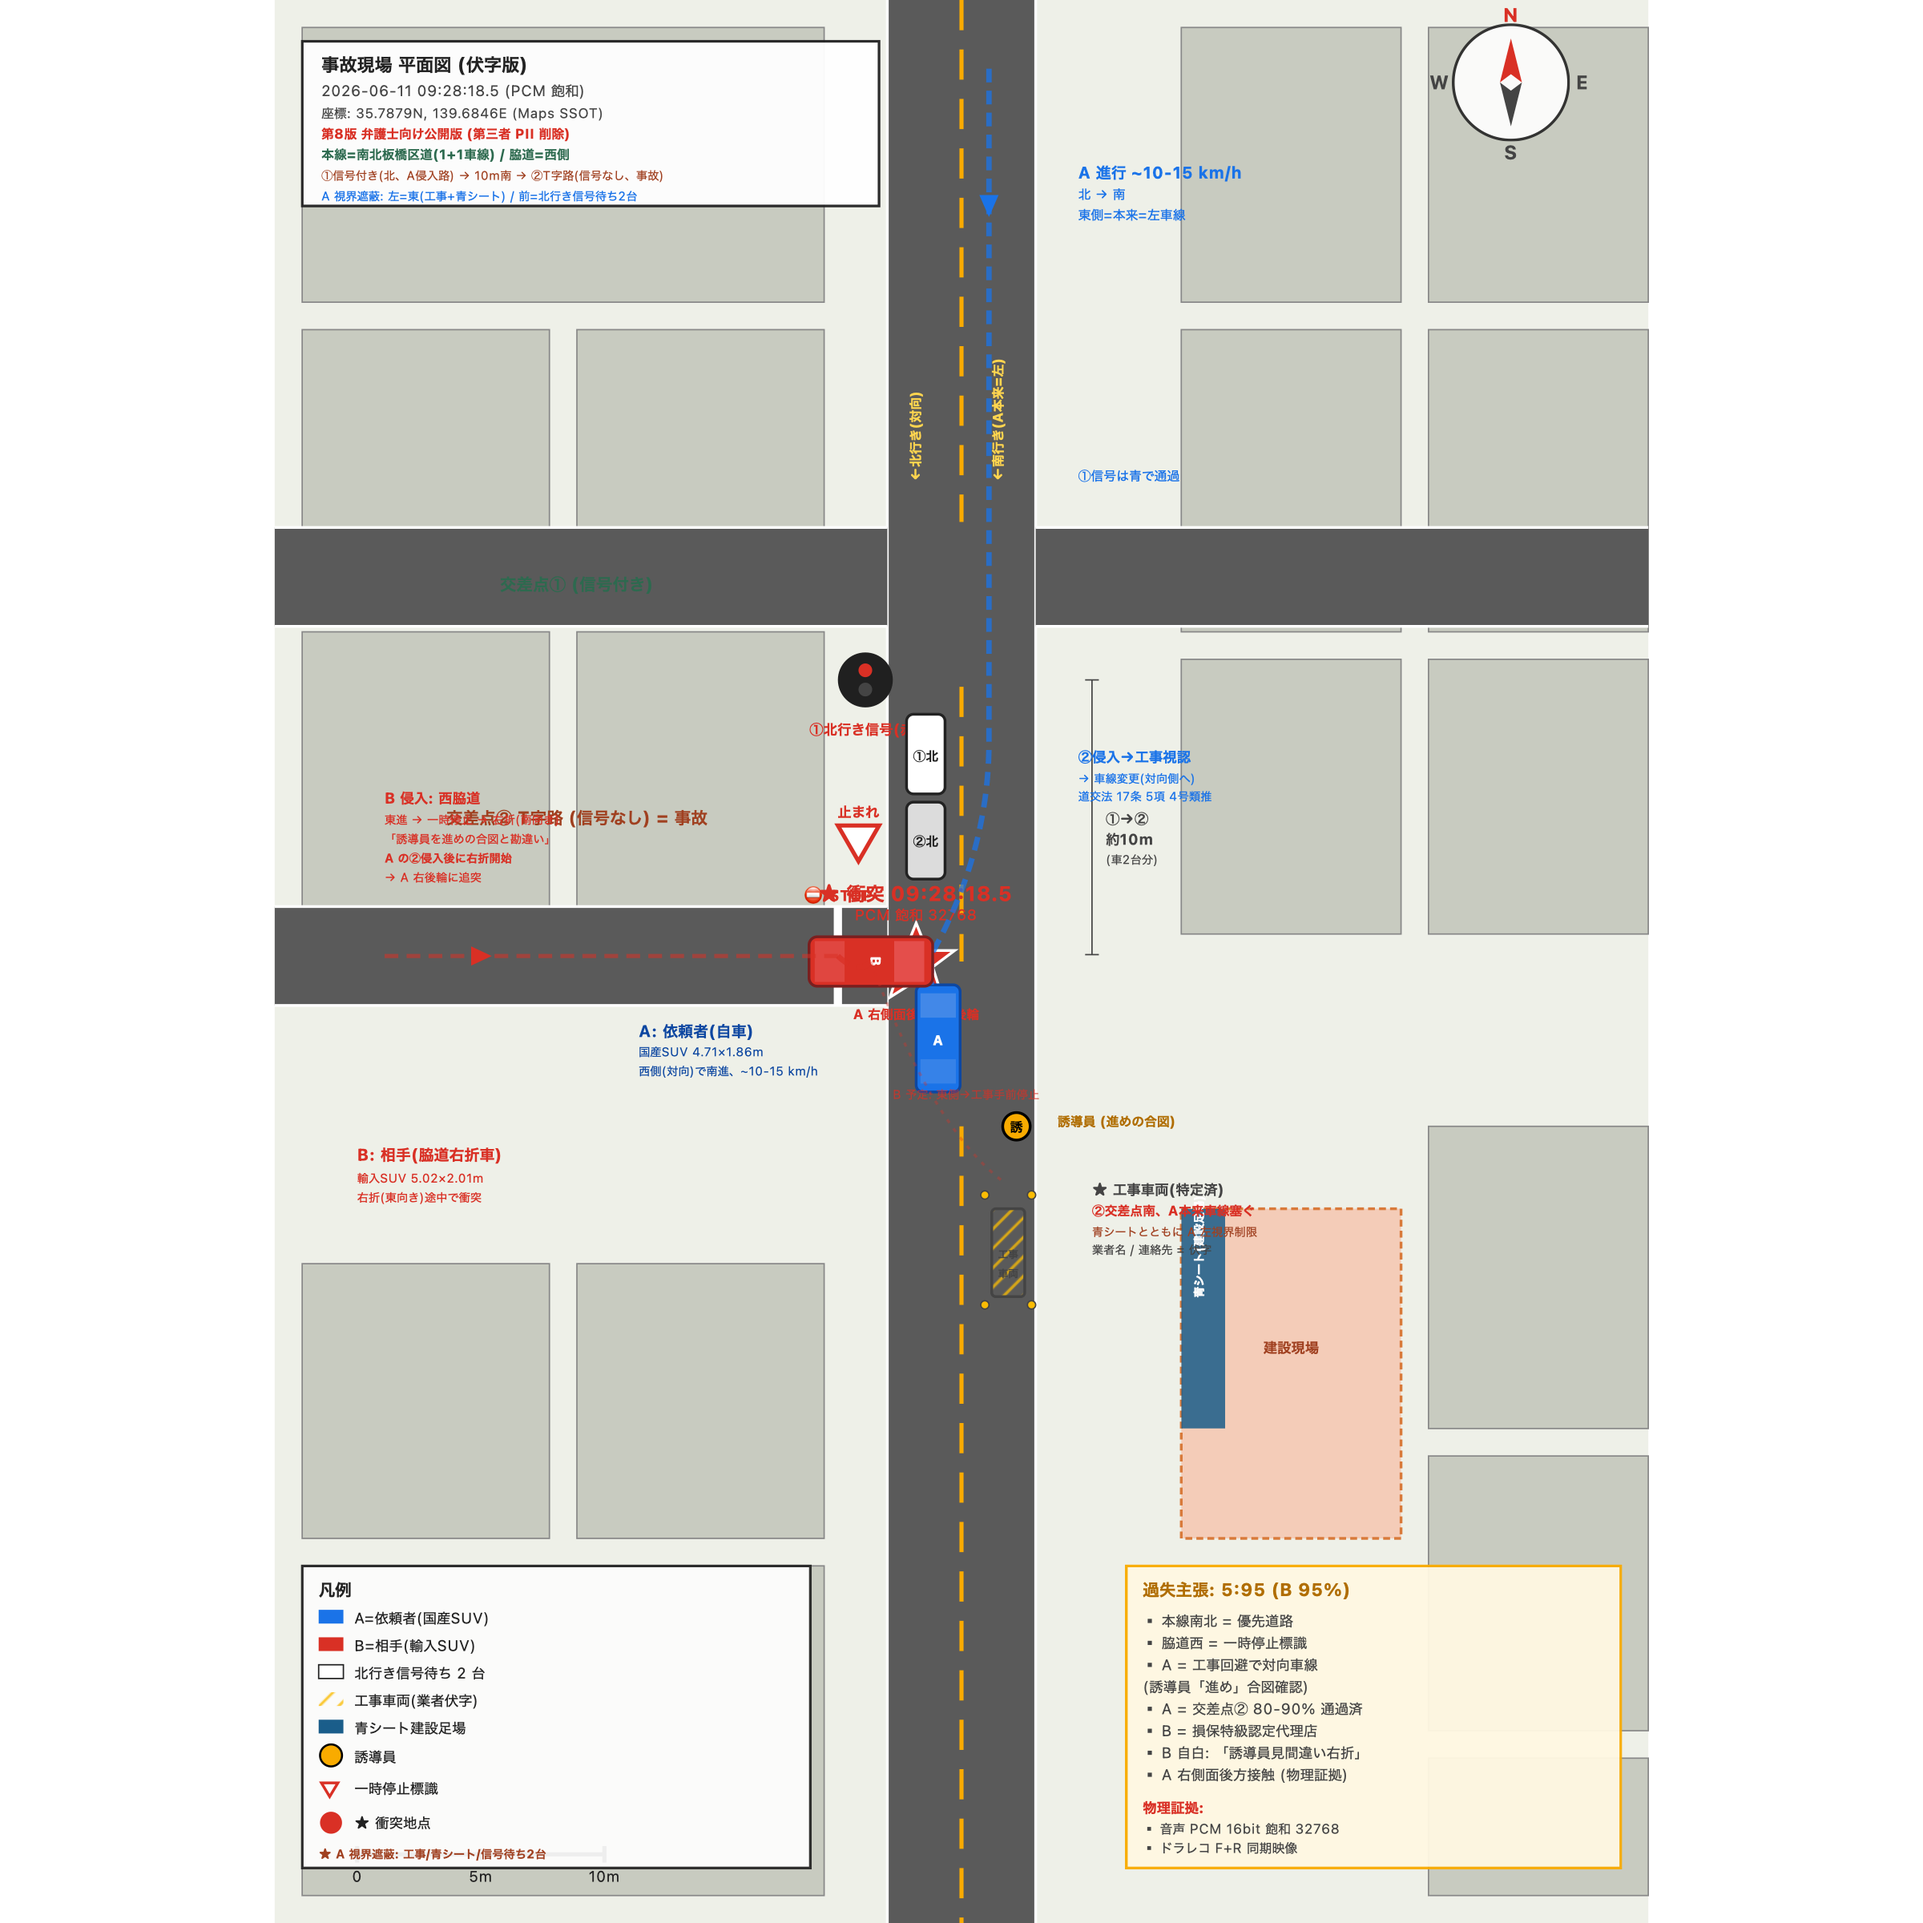
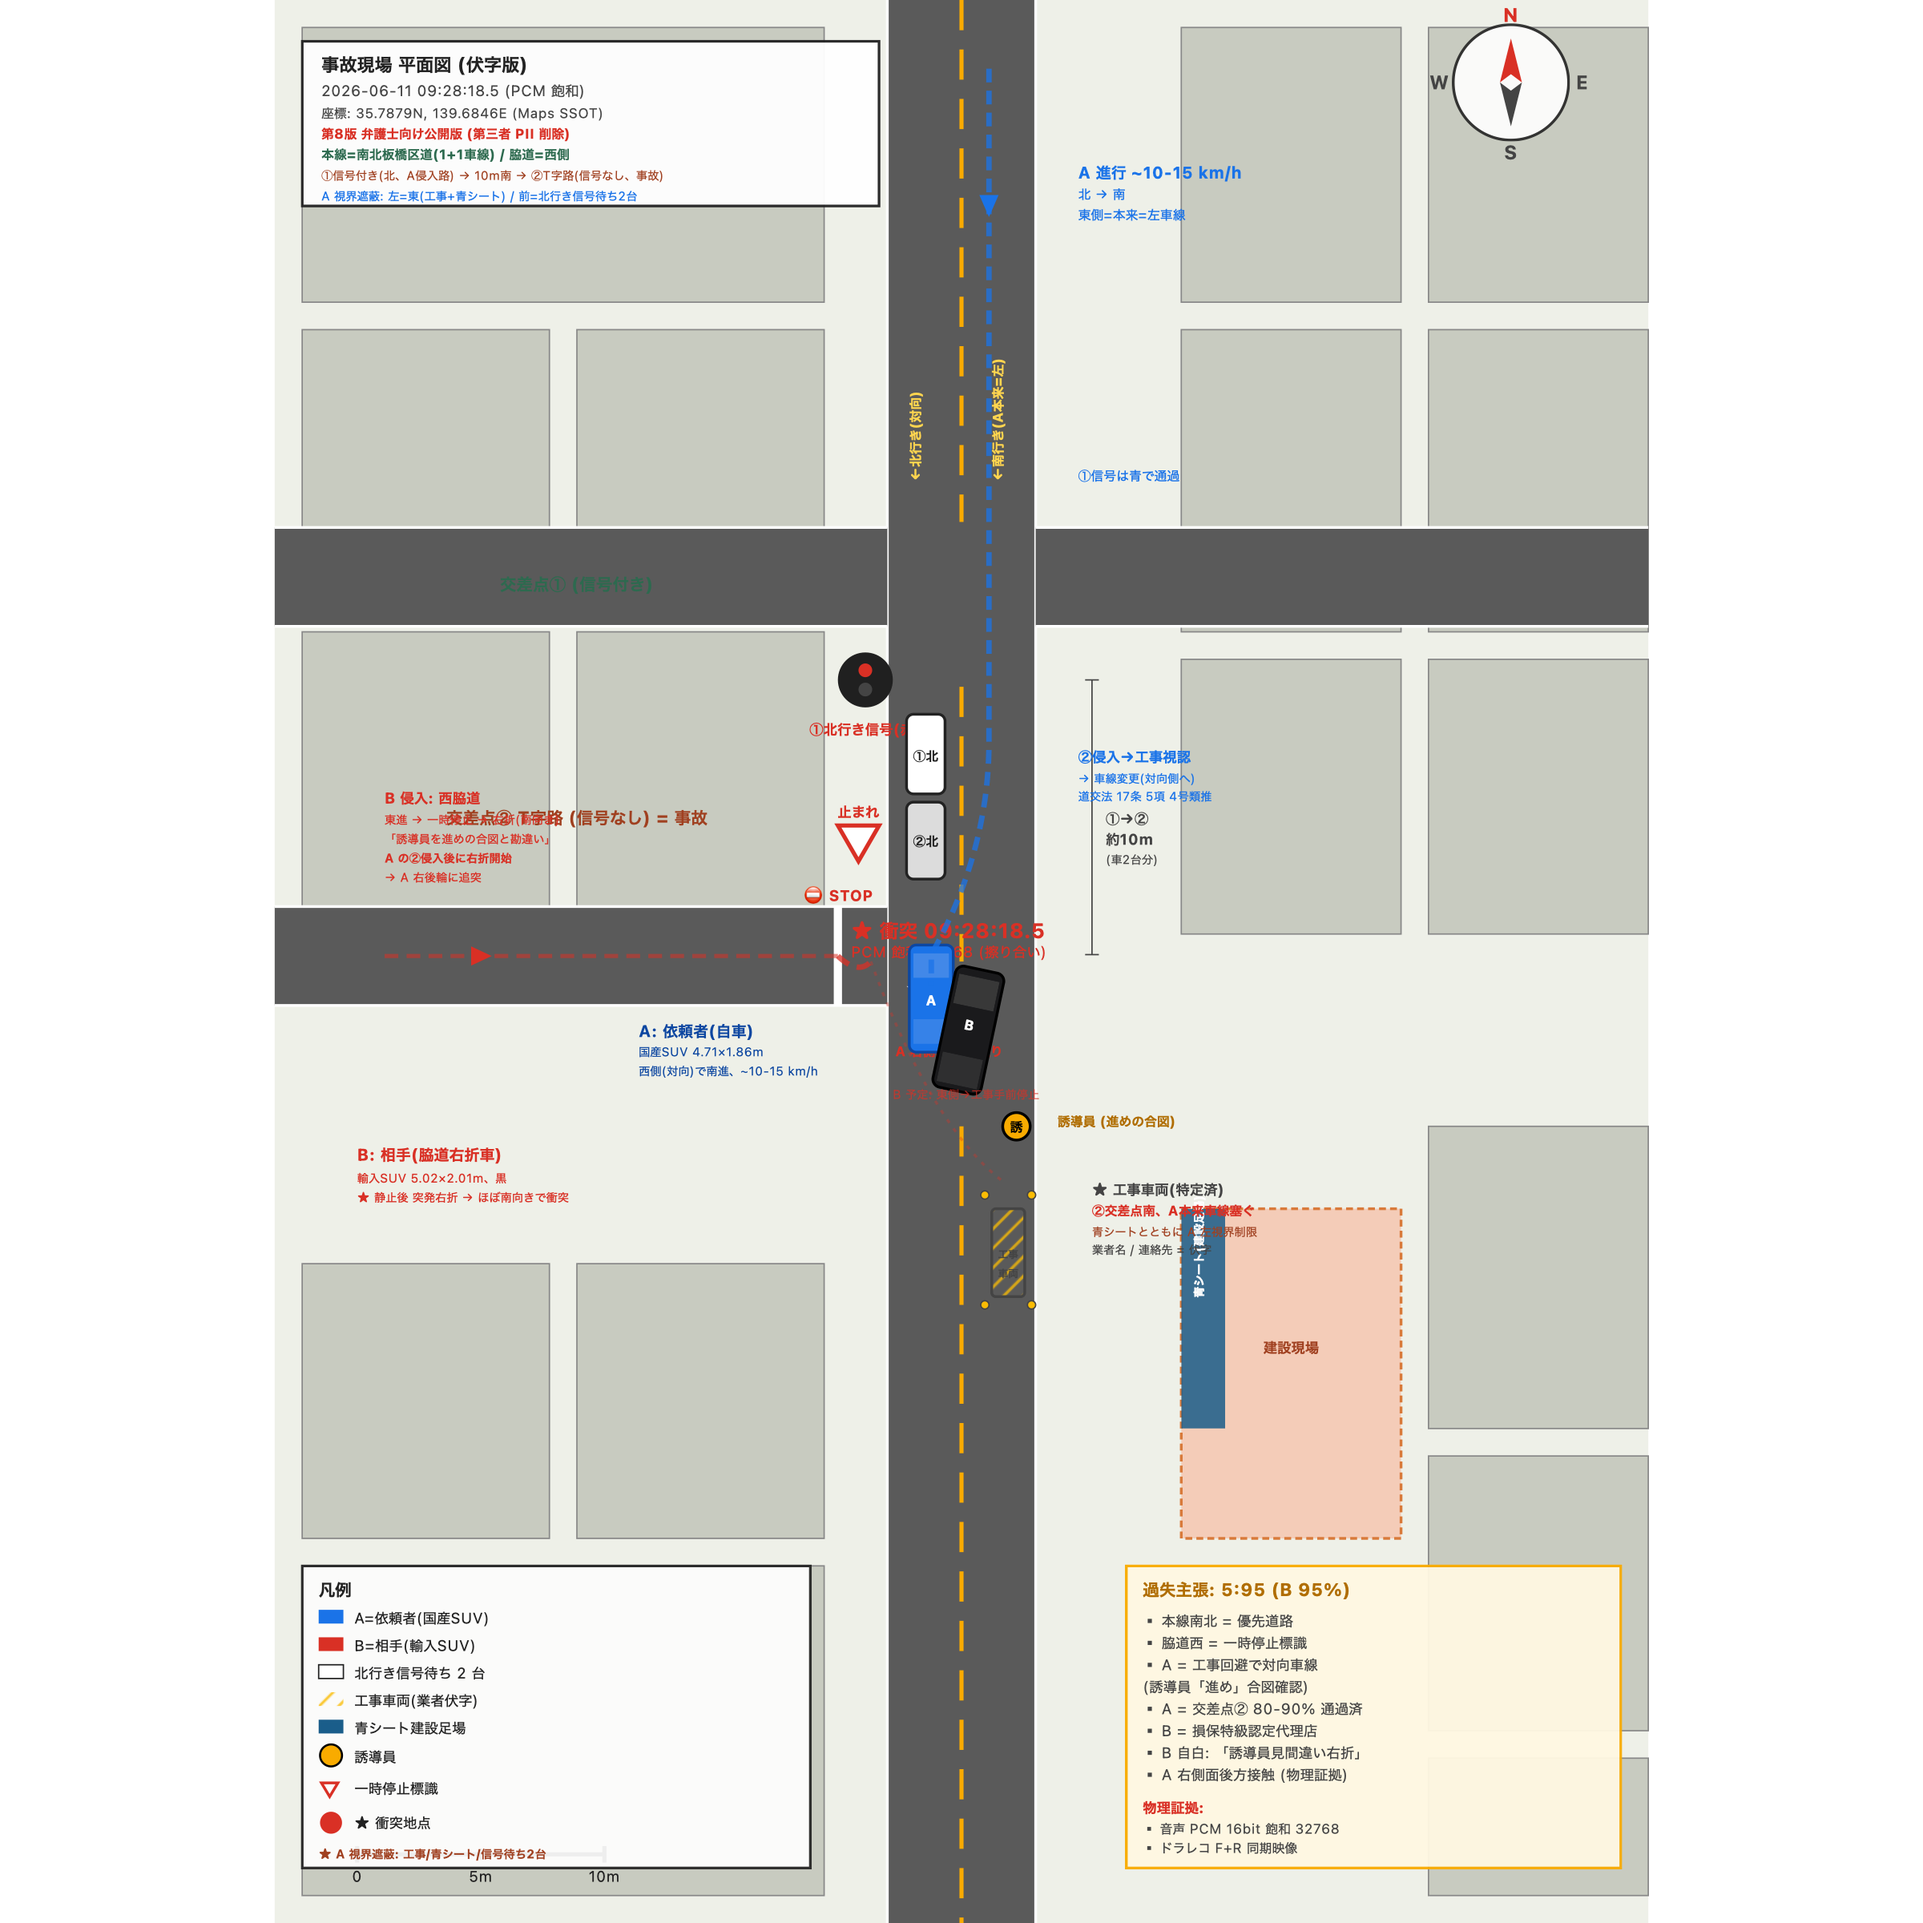
V11: SVG B静止突発右折擦り合い + index 視認対称性論点追加

Changed region(s): [[0.4062, 0.4375, 0.5312, 0.5938], [0.1875, 0.5938, 0.2812, 0.625]]

diff --git a/jiko-bbec5202cc8b/index.html b/jiko-bbec5202cc8b/index.html
@@ -128,6 +128,18 @@
 
 <h2 id="strategy">7. 戦略 γ + 過失主張</h2>
 
+<h3>視認対称性論点(ドラレコ SSOT 基準)</h3>
+<div class="box">
+  <strong>📍 双方の視界対称性</strong><br>
+  A は北行き信号待ち 2 台 + 工事車両 + 青シートで t&lt;2.5 秒まで西脇道の B を視認困難。<br>
+  B も同じく信号待ち 2 台 + 建物角により北からの A を t&lt;2.5 秒まで視認困難。<br>
+  → 両者の視認可能時刻が対称(t≧2.5 秒)。<br>
+  → A は誘導員の「進め」合図に従って西側車線へ進入した正当な動作。<br>
+  → B は<strong>静止していたにも関わらず</strong>、A が交差点通過中(視認可能後 0.2-0.5 秒)に突発右折で発進。<br>
+  → <strong>B の右折開始判断ミスが衝突の主因</strong>(対称的視認不能 + B の突発発進)。<br>
+  → 推定 A:B = 20:80 〜 30:70 を主張可能(訴訟ベース 0:100 射程は道交法 36 条 直進優先)。
+</div>
+
 <h3>過失割合主張(目標: A 5% : B 95%)</h3>
 <table>
   <tr><th width="50%">論点</th><th>修正値</th></tr>
